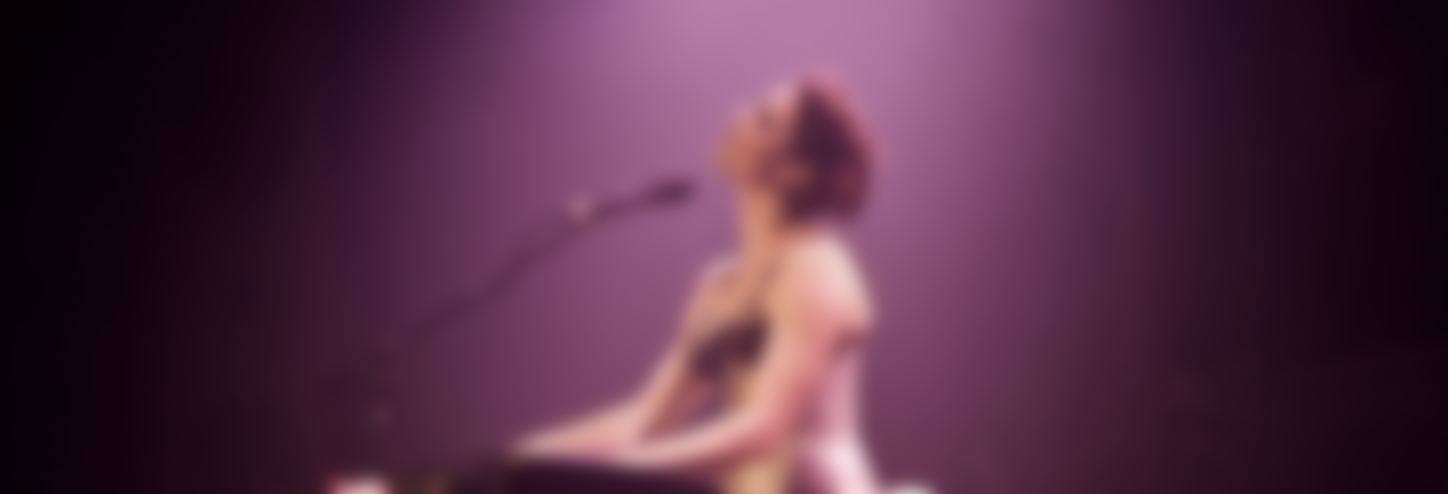
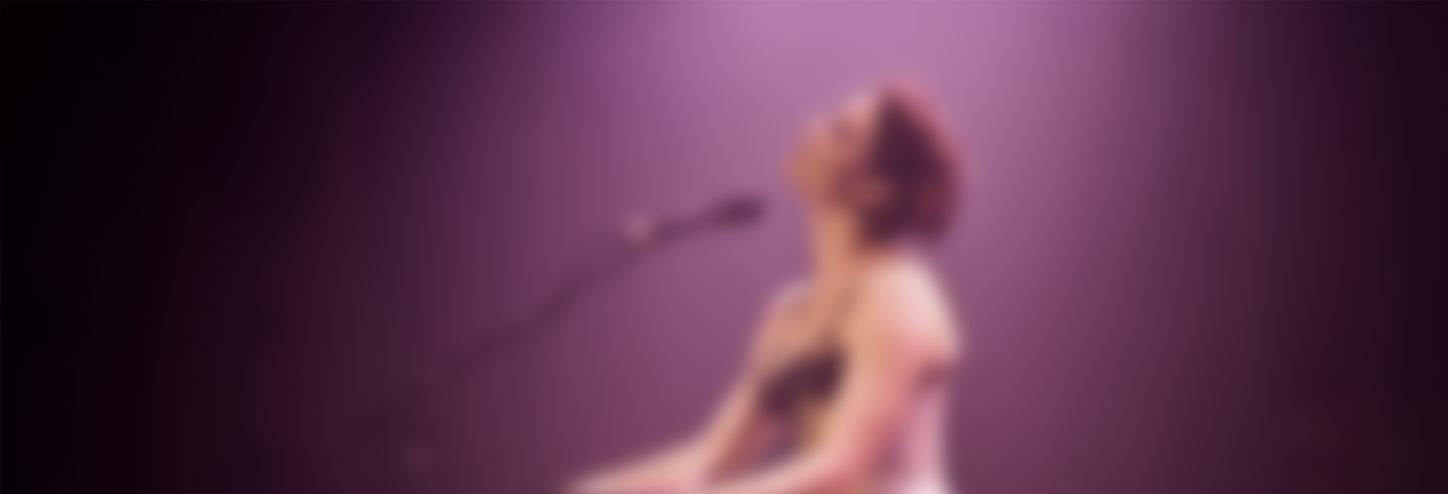
bkg image

diff --git a/landingpage.html b/landingpage.html
@@ -1,105 +1,95 @@
-
-
 <template name="keywordTemplate">
-   
 </template>
-
 <template name="home">
     {{> realThing}}
 </template>
 
-<template name="about">
-    <div class ="container">
-    <div class = "col-md-10">
-    <h2>About this project</h2>
-    <p><a href="https://en.wikipedia.org/wiki/Amanda_Palmer" class="text-primary">Amanda Palmer</a> 
-        is an American musician who has a tendency to give free informal concerts
-        when she is on tour. To avoid missing out on one, you should read <a href="https://twitter.com/amandapalmer" class="text-primary">her Twitter</a>. The next best thing though, is this website. Sign up for email alerts with the name of your city, and every time she mentions it on her Twitter, you will get an email with the text of the tweet. With any luck, you'll never miss a show again!</p>
+<template name="realThing">
+    <div class="text-center">
+        <div class="jumbotron">
 
-    <p>This is a project by Katie McGinley, who wanted to make a website, and didn't really want to keep up with Twitter. If you're curious about how the project was made, or have more projects that are in need of a developer, feel free to get in touch- I'm reachable at katie@mcgnly.com. If you would like to see more of my work, including the source code for this project, check out my <a href="https://www.github.com/mcgnly" class="text-primary">github</a> or my <a href="http://www.mcgnly.com" class="text-primary">website</a> (which currently still is my github...someday I'll make a proper one of my own.).</p>
+            <h1>AFP Alert</h1>
+            <header class="email-input">
+                <h3>Enter your email address and city here:</h3>
+                <!-- email input box -->
+                <form class="new-email">
+                    <input type="text" name="email" placeholder="email@something.com">
+                    <input type="text" name="keyword" placeholder="your city">
+                    <input type="submit" value="Submit">
+                </form>
+            </header>
+            <!-- <button class="twitterChecker">check twitter </button> -->
 
-    </div>
+           <br>
+        <a class="twitter-timeline" data-width="400" data-height="100" href="https://twitter.com/amandapalmer">Latest Tweets by Amanda Palmer</a> <script async src="//platform.twitter.com/widgets.js" charset="utf-8"></script>
+        </div>
     </div>
 </template>
 
+<template name="about">
+    <div class="container">
+        <div class="col-md-10">
+            <h2>About this project</h2>
+            <p><a href="https://en.wikipedia.org/wiki/Amanda_Palmer" class="text-primary">Amanda Palmer</a> is an American musician who has a tendency to give free informal concerts when she is on tour. To avoid missing out on one, you should read <a href="https://twitter.com/amandapalmer" class="text-primary">her Twitter</a>. The next best thing though, is this website. Sign up for email alerts with the name of your city, and every time she mentions it on her Twitter, you will get an email with the text of the tweet. With any luck, you'll never miss a show again!</p>
+            <p>This is a project by Katie McGinley, who wanted to make a website, and didn't really want to keep up with Twitter. If you're curious about how the project was made, or have more projects that are in need of a developer, feel free to get in touch- I'm reachable at katie@mcgnly.com. If you would like to see more of my work, including the source code for this project, check out my <a href="https://www.github.com/mcgnly" class="text-primary">github</a> or my <a href="http://www.mcgnly.com" class="text-primary">website</a> (which currently still is my github...someday I'll make a proper one of my own.).</p>
+        </div>
+    </div>
+</template>
 
 <template name="donate">
-    <div class ="container">
-    <div class = "col-md-10">
-    <h2>Support this project</h2>
-
-    <p>Keeping this website online and running costs about EUR150/year, and ads are kind of a gross way to fund anything. In the spirit of <a href="http://amandapalmer.net/theartofasking/" class="text-primary">"The Art of Asking"</a>, this is the digital hat. I appreciate any and all donuts you choose to give. Thank you. </p>
-
-<div class="container">
-  <div class="row">
-    <div class="col-sm-4">
-
-<script id='fbk6lho'>(function(i){var f,s=document.getElementById(i);f=document.createElement('iframe');f.src='//button.flattr.com/view/?fid=voxj1p&url='+encodeURIComponent(document.URL);f.title='Flattr';f.height=62;f.width=55;f.style.borderWidth=0;s.parentNode.insertBefore(f,s);})('fbk6lho');</script>
-    </div>
-  
-    <div class="col-sm-4">
-  <img src= '/bitcoin-qr.png' alt="donate bitcoin" style="width:150px;height:150px;">
-    </div>
-
-    <div class="col-sm-4">
-<form action="https://www.paypal.com/cgi-bin/webscr" method="post" target="_top">
-<input type="hidden" name="cmd" value="_s-xclick">
-<input type="hidden" name="hosted_button_id" value="NXLGWLXNVM3C2">
-<input type="image" src="https://github.com/mcgnly/show-alert-ninja/blob/feature/email-and-unsubscribe/public/hat.png?raw=true" border="0" name="submit" alt="PayPal - The safer, easier way to pay online!">
-<img alt="" border="0" src="https://www.paypalobjects.com/en_US/i/scr/pixel.gif" width="1" height="1">
-<input type="text" name="amount" value="" />
-</form>
-    </div>
-  </div>
-</div>
-
-
-    </div>
+    <div class="container">
+        <div class="col-md-10">
+            <h2>Support this project</h2>
+            <p>Keeping this website online and running costs about EUR150/year, and ads are kind of a gross way to fund anything. In the spirit of <a href="http://amandapalmer.net/theartofasking/" class="text-primary">"The Art of Asking"</a>, this is the digital hat. I appreciate any and all donuts you choose to give. Thank you. </p>
+            <div class="container">
+                <div class="row">
+                    <div class="col-sm-4">
+                        <div class="centerBlock">
+                            <form action="https://www.paypal.com/cgi-bin/webscr" method="post" target="_top">
+                                <input type="hidden" name="cmd" value="_s-xclick">
+                                <input type="hidden" name="hosted_button_id" value="NXLGWLXNVM3C2">
+                                <input type="image" src="https://github.com/mcgnly/show-alert-ninja/blob/feature/email-and-unsubscribe/public/hat.png?raw=true" border="0" name="submit" alt="PayPal - The safer, easier way to pay online!">
+                                <img alt="" border="0" src="https://www.paypalobjects.com/en_US/i/scr/pixel.gif" width="1" height="1">
+                                <!-- <input type="text" name="amount" value="" > -->
+                            </form>
+                        </div>
+                    </div>
+                    <div class="col-sm-4">
+                        <div class="centerBlock">
+                            <script id='fbk6lho'>
+                            (function(i) {
+                                var f, s = document.getElementById(i);
+                                f = document.createElement('iframe');
+                                f.src = '//button.flattr.com/view/?fid=voxj1p&url=' + encodeURIComponent(document.URL);
+                                f.title = 'Flattr';
+                                f.height = 62;
+                                f.width = 55;
+                                f.style.borderWidth = 0;
+                                s.parentNode.insertBefore(f, s);
+                            })('fbk6lho');
+                            </script>
+                        </div>
+                    </div>
+                    <div class="col-sm-4">
+                        <div class="centerBlock">
+                            <img src='/bitcoin-qr.png' alt="donate bitcoin" style="width:100px;height:100px;">
+                        </div>
+                    </div>
+                </div>
+            </div>
+        </div>
     </div>
 </template>
 
 <template name="main">
-   
-    
     {{> yield}}
-    <hr />
-    {{> navigation}}
-    <p class ="footerLine">Copyright &copy; AFP Alert, 2016.</p>
+    <hr /> {{> navigation}}
+    <p class="footerLine">Copyright &copy; AFP Alert, 2016.</p>
 </template>
-
 <template name="navigation">
     <ol class="breadcrumb">
         <li><a href="{{pathFor route='home'}}">Home</a></li>
         <li><a href="{{pathFor route='about'}}">About</a></li>
         <li><a href="{{pathFor route='donate'}}">Support</a></li>
     </ol>
-</template>
-
-<template name="realThing">
-        <br>
-        <br>
-        <div class="text-center">
-            <div class="jumbotron">
-                    <br>
-                    <br>
-                    <br>
-                    <br>
-                    <br>
-                    <br>
-                   
-                    <h1 class="stroke">AFP Alert</h1>
-                    <header class="email-input">
-                        <h3>Enter your email address and city here:</h3>
-                        <!-- email input box -->
-                        <form class = "new-email">
-                            <input type="text" name ="email" placeholder="email@something.com">
-                            <input type="text" name ="keyword" placeholder="your city">
-                            <input type="submit" value = "Submit">
-                        </form>
-                    </header>
-    <button class ="twitterChecker">check twitter </button>
-                
-            </div>
-         
-        </div>
 </template>

diff --git a/lib/custom-css.css b/lib/custom-css.css
@@ -18,7 +18,7 @@ body {
 .jumbotron {
     background: url('/afp-bkg-blr.png') ;
     background-position: left;
-
+    
   /*max-width: 900px;
   margin: 0 auto;
   min-height: 100%;
